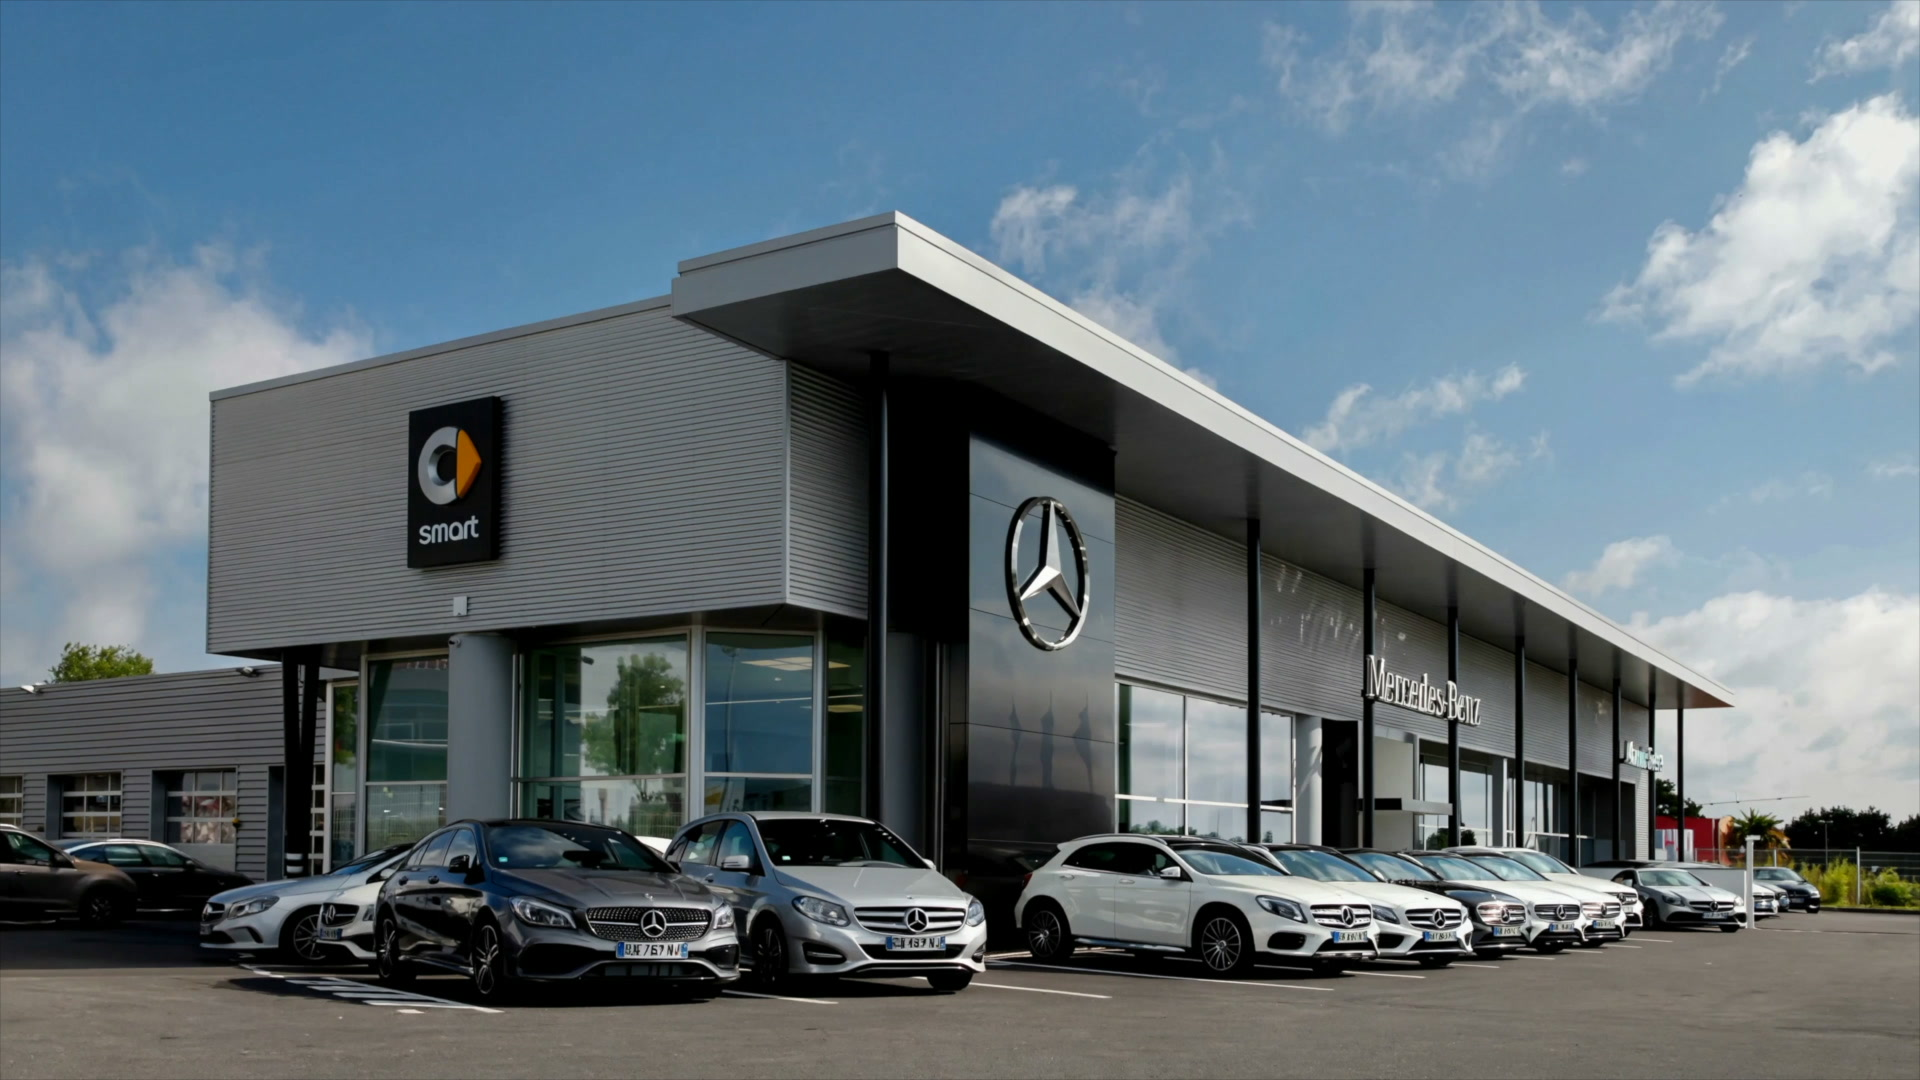
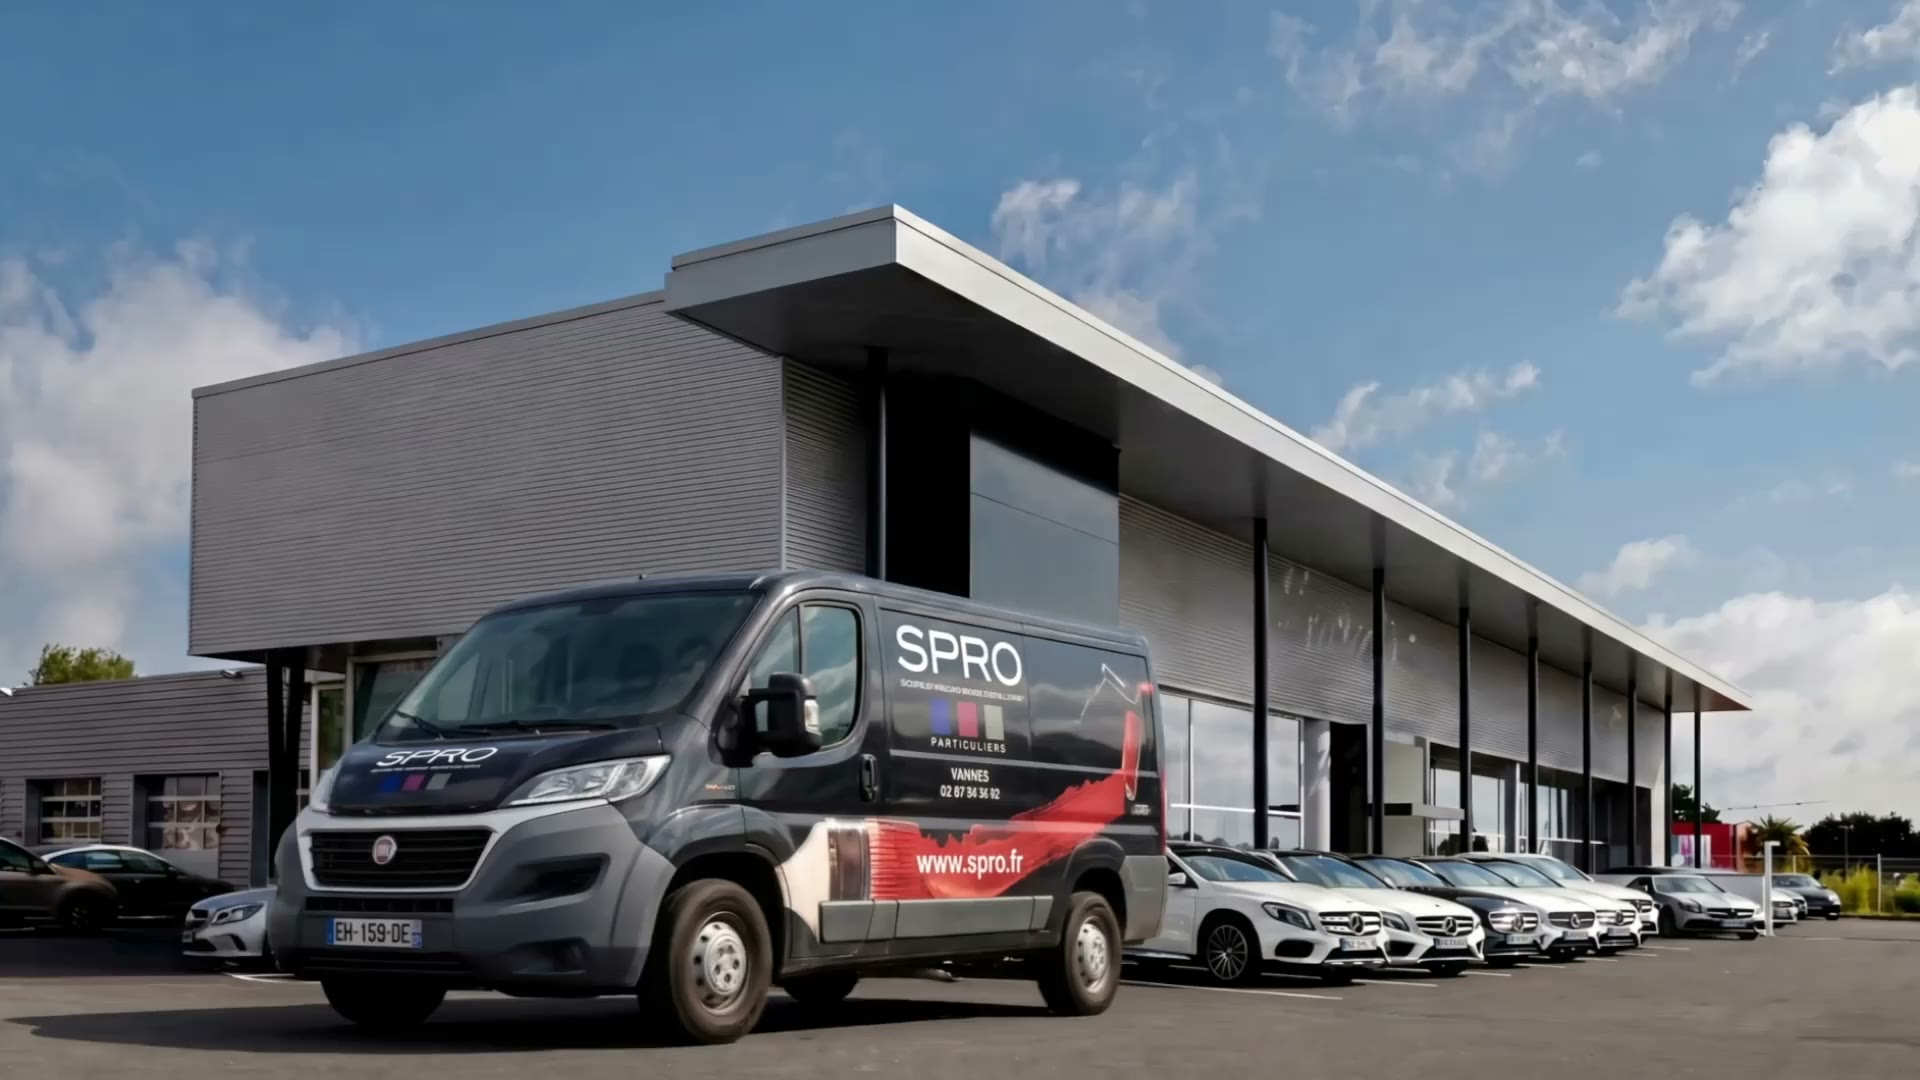
Régénère le poster du hero et complète les balises de partage
Le poster datait du 29 juillet et montrait donc la première image de l'ancien
montage — la concession avec le panneau smart et l'étoile Mercedes bien
lisibles. C'est l'image affichée avant le démarrage de la vidéo, donc la
première vue par un visiteur et par Google, et le probable élément de LCP :
l'endroit le plus visible pour laisser précisément ce qu'on venait d'effacer.
Il est réextrait de la première image du nouveau montage, celle du fourgon
SPRO devant la façade nettoyée.

Mentions légales et politique de confidentialité étaient par ailleurs les deux
seules pages du site sans aucune balise Open Graph : un lien partagé vers
elles n'affichait ni titre, ni description, ni image. Elles reçoivent le même
jeu que les six autres pages.

Vérifié au passage, sans rien y changer : les huit titles et descriptions sont
distincts et bien dimensionnés, chaque page a un H1 unique, toutes les ancres
internes pointent sur une cible existante, le sitemap correspond aux pages
réelles et les canonical sont corrects. Les 37 images de l'accueil sans
width/height restent un faux positif connu — les conteneurs réservent l'espace
via aspect-ratio et le CLS mesuré est nul.

diff --git a/mentions-legales.html b/mentions-legales.html
@@ -7,6 +7,18 @@
 <meta name="description" content="Mentions légales du site spro.fr — SPRO, Société Peinture Revêtement de l'Ouest, Vannes." />
 <meta name="robots" content="index, follow" />
 <link rel="canonical" href="https://www.spro.fr/mentions-legales.html" />
+<!-- Balises de partage (2026-09-02) : cette page et la politique de
+     confidentialité étaient les deux seules du site à n'en avoir aucune. Un
+     lien partagé vers elles n'affichait donc ni titre, ni image, ni
+     description — juste une URL nue. -->
+<meta property="og:type" content="website" />
+<meta property="og:locale" content="fr_FR" />
+<meta property="og:site_name" content="SPRO" />
+<meta property="og:title" content="Mentions légales — SPRO" />
+<meta property="og:description" content="Mentions légales du site spro.fr — SPRO, Société Peinture Revêtement de l'Ouest, Vannes." />
+<meta property="og:url" content="https://www.spro.fr/mentions-legales.html" />
+<meta property="og:image" content="https://www.spro.fr/brand/og-spro.jpg" />
+<meta name="twitter:card" content="summary_large_image" />
 <script>document.documentElement.classList.add('js')</script>
 <link rel="icon" href="/brand/favicon.ico" sizes="any" />
 <link rel="icon" href="/brand/favicon-512.png" type="image/png" />

diff --git a/confidentialite.html b/confidentialite.html
@@ -7,6 +7,16 @@
 <meta name="description" content="Politique de confidentialité du site spro.fr — collecte, utilisation et protection des données personnelles conformément au RGPD." />
 <meta name="robots" content="index, follow" />
 <link rel="canonical" href="https://www.spro.fr/confidentialite.html" />
+<!-- Balises de partage (2026-09-02) : voir la note identique dans
+     mentions-legales.html — ces deux pages étaient les seules sans. -->
+<meta property="og:type" content="website" />
+<meta property="og:locale" content="fr_FR" />
+<meta property="og:site_name" content="SPRO" />
+<meta property="og:title" content="Politique de confidentialité — SPRO" />
+<meta property="og:description" content="Politique de confidentialité du site spro.fr — collecte, utilisation et protection des données personnelles conformément au RGPD." />
+<meta property="og:url" content="https://www.spro.fr/confidentialite.html" />
+<meta property="og:image" content="https://www.spro.fr/brand/og-spro.jpg" />
+<meta name="twitter:card" content="summary_large_image" />
 <script>document.documentElement.classList.add('js')</script>
 <link rel="icon" href="/brand/favicon.ico" sizes="any" />
 <link rel="icon" href="/brand/favicon-512.png" type="image/png" />
